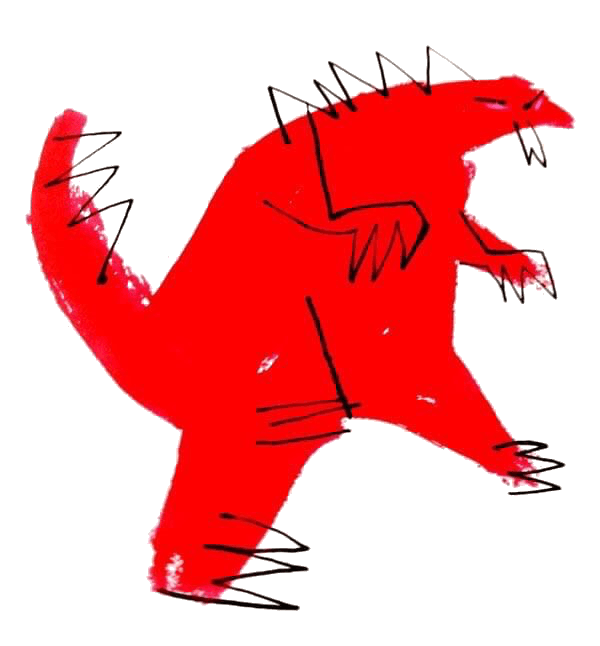
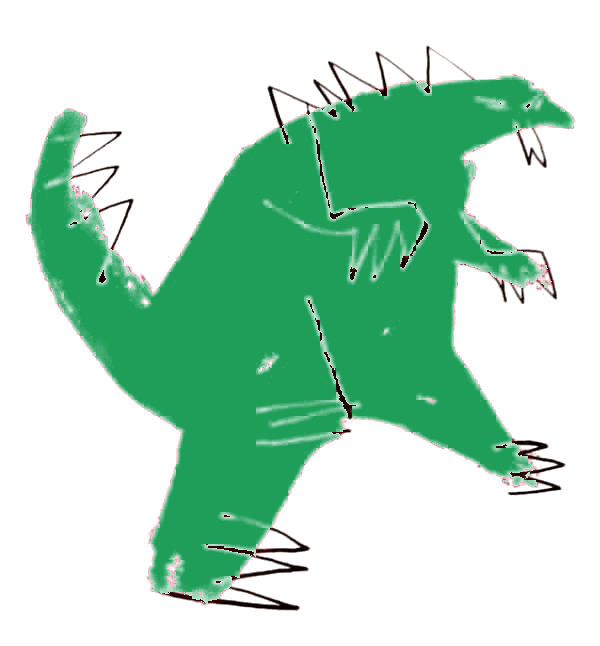
Easter egg com dinossauro verde; dock mais baixa

diff --git a/fonte/app/style.css b/fonte/app/style.css
@@ -2,7 +2,7 @@
   --bg:#f4f7f5;--card:#fff;--ink:#10201b;--mut:#5b6e67;--bd:#e0e9e5;--ac:#14806a;--ac-ink:#fff;--ac-soft:#dff3ed;
   --nu:#2c6bd6;--nu-soft:#e4edfc;--el:#c2570c;--el-soft:#fdeadb;--mec:#7a3fc9;--mec-soft:#efe5fb;
   --tile:#fff;--sombra:0 1px 2px rgba(16,32,27,.06),0 6px 20px rgba(16,32,27,.06);
-  --topo:56px;--aba:68px;--gap:12px;--r:16px;
+  --topo:56px;--aba:58px;--gap:10px;--r:16px;
   --seg:env(safe-area-inset-bottom,0px);--top:env(safe-area-inset-top,0px);
   color-scheme:light dark;
 }
@@ -244,7 +244,7 @@ a.etq{transition:transform .15s}a.etq:active{transform:scale(.92)}
 .cr-mutano{margin:2px 0 0;font:900 clamp(68px,24vw,116px)/.92 Impact,'Haettenschweiler','Arial Narrow Bold','Helvetica Neue',Arial,sans-serif;letter-spacing:-.005em;transform:rotate(-3deg);filter:url(#cr-fio)}
 .cr-mutano div{display:inline-block}
 .cr-zz{display:block;width:min(78vw,340px);height:16px;margin-top:2px;transform:rotate(-3deg);overflow:visible}
-.cr-zz path{fill:none;stroke:#ee1c25;stroke-width:6;stroke-linecap:round;stroke-linejoin:round}
+.cr-zz path{fill:none;stroke:#1f9e5a;stroke-width:6;stroke-linecap:round;stroke-linejoin:round}
 .dv-caixa{width:min(78vw,400px);touch-action:none}
 .dv{display:block;width:100%;height:auto;overflow:visible}
 .dv .v-red{fill:var(--vermelho,#f60507);stroke:none}
@@ -267,7 +267,7 @@ mark{background:color-mix(in srgb,#f4b400 40%,transparent);color:inherit;border-
 
 /* dock flutuante (vidro) */
 .abas{position:fixed;left:50%;bottom:calc(var(--seg) + var(--gap));z-index:20;width:min(calc(100% - 28px),420px);height:var(--aba);transform:translateX(-50%);
-  display:flex;align-items:stretch;padding:5px;border-radius:32px;isolation:isolate;
+  display:flex;align-items:stretch;padding:4px;border-radius:28px;isolation:isolate;
   background:rgba(255,255,255,.55);
   -webkit-backdrop-filter:blur(30px) saturate(180%);backdrop-filter:blur(30px) saturate(180%);
   border:1px solid rgba(16,32,27,.09);
@@ -280,16 +280,16 @@ mark{background:color-mix(in srgb,#f4b400 40%,transparent);color:inherit;border-
   box-shadow:0 12px 34px rgba(0,0,0,.5),0 1px 3px rgba(0,0,0,.35)}
   .abas::before{background:linear-gradient(180deg,rgba(255,255,255,.10),rgba(255,255,255,0) 55%)}}
 @keyframes dock-entra{from{opacity:0;transform:translateX(-50%) translateY(40px) scale(.94)}to{opacity:1;transform:translateX(-50%)}}
-.abas a{position:relative;z-index:1;flex:1 1 0;min-width:0;display:flex;flex-direction:column;align-items:center;justify-content:center;gap:3px;
-  color:var(--mut);font-size:.62rem;font-weight:650;border-radius:26px;transition:color .25s,transform .2s}
+.abas a{position:relative;z-index:1;flex:1 1 0;min-width:0;display:flex;flex-direction:column;align-items:center;justify-content:center;gap:2px;
+  color:var(--mut);font-size:.6rem;font-weight:650;border-radius:26px;transition:color .25s,transform .2s}
 .abas a:active{transform:scale(.9)}
 .abas a.on{color:#0c5f4e}
 @media (prefers-color-scheme:dark){.abas a.on{color:var(--ac)}}
 .abas a span{line-height:1;white-space:nowrap}
-.abas svg{width:24px;height:24px;flex:none;fill:none;stroke:currentColor;stroke-width:1.9;stroke-linecap:round;stroke-linejoin:round}
-.abas .glifo{display:flex;align-items:center;justify-content:center;width:30px;height:24px;font-size:.98rem;line-height:1;letter-spacing:-.04em;white-space:nowrap}
+.abas svg{width:22px;height:22px;flex:none;fill:none;stroke:currentColor;stroke-width:1.9;stroke-linecap:round;stroke-linejoin:round}
+.abas .glifo{display:flex;align-items:center;justify-content:center;width:30px;height:22px;font-size:.98rem;line-height:1;letter-spacing:-.04em;white-space:nowrap}
 .abas .glifo sup{font-size:.62em;line-height:1;margin-left:1px;position:relative;top:-.42em}
-.pilula{position:absolute;top:5px;bottom:5px;left:0;width:60px;border-radius:27px;opacity:0;pointer-events:none;z-index:0;
+.pilula{position:absolute;top:4px;bottom:4px;left:0;width:60px;border-radius:24px;opacity:0;pointer-events:none;z-index:0;
   background:rgba(20,128,106,.14);
   transition:transform .42s cubic-bezier(.3,1.3,.5,1),width .42s cubic-bezier(.3,1.3,.5,1),opacity .2s}
 @media (prefers-color-scheme:dark){.pilula{background:rgba(255,255,255,.13)}}

diff --git a/site/style.css b/site/style.css
@@ -2,7 +2,7 @@
   --bg:#f4f7f5;--card:#fff;--ink:#10201b;--mut:#5b6e67;--bd:#e0e9e5;--ac:#14806a;--ac-ink:#fff;--ac-soft:#dff3ed;
   --nu:#2c6bd6;--nu-soft:#e4edfc;--el:#c2570c;--el-soft:#fdeadb;--mec:#7a3fc9;--mec-soft:#efe5fb;
   --tile:#fff;--sombra:0 1px 2px rgba(16,32,27,.06),0 6px 20px rgba(16,32,27,.06);
-  --topo:56px;--aba:68px;--gap:12px;--r:16px;
+  --topo:56px;--aba:58px;--gap:10px;--r:16px;
   --seg:env(safe-area-inset-bottom,0px);--top:env(safe-area-inset-top,0px);
   color-scheme:light dark;
 }
@@ -244,7 +244,7 @@ a.etq{transition:transform .15s}a.etq:active{transform:scale(.92)}
 .cr-mutano{margin:2px 0 0;font:900 clamp(68px,24vw,116px)/.92 Impact,'Haettenschweiler','Arial Narrow Bold','Helvetica Neue',Arial,sans-serif;letter-spacing:-.005em;transform:rotate(-3deg);filter:url(#cr-fio)}
 .cr-mutano div{display:inline-block}
 .cr-zz{display:block;width:min(78vw,340px);height:16px;margin-top:2px;transform:rotate(-3deg);overflow:visible}
-.cr-zz path{fill:none;stroke:#ee1c25;stroke-width:6;stroke-linecap:round;stroke-linejoin:round}
+.cr-zz path{fill:none;stroke:#1f9e5a;stroke-width:6;stroke-linecap:round;stroke-linejoin:round}
 .dv-caixa{width:min(78vw,400px);touch-action:none}
 .dv{display:block;width:100%;height:auto;overflow:visible}
 .dv .v-red{fill:var(--vermelho,#f60507);stroke:none}
@@ -267,7 +267,7 @@ mark{background:color-mix(in srgb,#f4b400 40%,transparent);color:inherit;border-
 
 /* dock flutuante (vidro) */
 .abas{position:fixed;left:50%;bottom:calc(var(--seg) + var(--gap));z-index:20;width:min(calc(100% - 28px),420px);height:var(--aba);transform:translateX(-50%);
-  display:flex;align-items:stretch;padding:5px;border-radius:32px;isolation:isolate;
+  display:flex;align-items:stretch;padding:4px;border-radius:28px;isolation:isolate;
   background:rgba(255,255,255,.55);
   -webkit-backdrop-filter:blur(30px) saturate(180%);backdrop-filter:blur(30px) saturate(180%);
   border:1px solid rgba(16,32,27,.09);
@@ -280,16 +280,16 @@ mark{background:color-mix(in srgb,#f4b400 40%,transparent);color:inherit;border-
   box-shadow:0 12px 34px rgba(0,0,0,.5),0 1px 3px rgba(0,0,0,.35)}
   .abas::before{background:linear-gradient(180deg,rgba(255,255,255,.10),rgba(255,255,255,0) 55%)}}
 @keyframes dock-entra{from{opacity:0;transform:translateX(-50%) translateY(40px) scale(.94)}to{opacity:1;transform:translateX(-50%)}}
-.abas a{position:relative;z-index:1;flex:1 1 0;min-width:0;display:flex;flex-direction:column;align-items:center;justify-content:center;gap:3px;
-  color:var(--mut);font-size:.62rem;font-weight:650;border-radius:26px;transition:color .25s,transform .2s}
+.abas a{position:relative;z-index:1;flex:1 1 0;min-width:0;display:flex;flex-direction:column;align-items:center;justify-content:center;gap:2px;
+  color:var(--mut);font-size:.6rem;font-weight:650;border-radius:26px;transition:color .25s,transform .2s}
 .abas a:active{transform:scale(.9)}
 .abas a.on{color:#0c5f4e}
 @media (prefers-color-scheme:dark){.abas a.on{color:var(--ac)}}
 .abas a span{line-height:1;white-space:nowrap}
-.abas svg{width:24px;height:24px;flex:none;fill:none;stroke:currentColor;stroke-width:1.9;stroke-linecap:round;stroke-linejoin:round}
-.abas .glifo{display:flex;align-items:center;justify-content:center;width:30px;height:24px;font-size:.98rem;line-height:1;letter-spacing:-.04em;white-space:nowrap}
+.abas svg{width:22px;height:22px;flex:none;fill:none;stroke:currentColor;stroke-width:1.9;stroke-linecap:round;stroke-linejoin:round}
+.abas .glifo{display:flex;align-items:center;justify-content:center;width:30px;height:22px;font-size:.98rem;line-height:1;letter-spacing:-.04em;white-space:nowrap}
 .abas .glifo sup{font-size:.62em;line-height:1;margin-left:1px;position:relative;top:-.42em}
-.pilula{position:absolute;top:5px;bottom:5px;left:0;width:60px;border-radius:27px;opacity:0;pointer-events:none;z-index:0;
+.pilula{position:absolute;top:4px;bottom:4px;left:0;width:60px;border-radius:24px;opacity:0;pointer-events:none;z-index:0;
   background:rgba(20,128,106,.14);
   transition:transform .42s cubic-bezier(.3,1.3,.5,1),width .42s cubic-bezier(.3,1.3,.5,1),opacity .2s}
 @media (prefers-color-scheme:dark){.pilula{background:rgba(255,255,255,.13)}}

diff --git a/site/index.html b/site/index.html
@@ -14,7 +14,7 @@
 <link rel="manifest" href="manifest.webmanifest">
 <link rel="icon" href="icone.svg" type="image/svg+xml">
 <link rel="apple-touch-icon" href="apple-touch-icon.png">
-<link rel="stylesheet" href="style.css?v=11755b0131">
+<link rel="stylesheet" href="style.css?v=2790217a4e">
 </head>
 <body>
 <div id="app">
@@ -44,7 +44,7 @@
   <div class="zoom" id="zoom" hidden><div class="zoom-conteudo" id="zoom-conteudo"></div></div>
 </div>
 <noscript>Este atlas precisa de JavaScript para funcionar.</noscript>
-<script src="motion.js?v=11755b0131" defer></script>
-<script src="app.js?v=11755b0131" defer></script>
+<script src="motion.js?v=2790217a4e" defer></script>
+<script src="app.js?v=2790217a4e" defer></script>
 </body>
 </html>

diff --git a/site/sw.js b/site/sw.js
@@ -7,11 +7,11 @@
 // 3. `versao.json` nunca é guardado: é por ele que o app descobre que saiu
 //    versão nova e mostra o botão Atualizar.
 //
-// `11755b0131` vira a marca do build em tools/build.mjs, então este arquivo muda
+// `2790217a4e` vira a marca do build em tools/build.mjs, então este arquivo muda
 // a cada publicação, o navegador instala o worker novo e o `activate` apaga o
 // cache do anterior. O worker novo assume sem esperar; quem recarrega a tela é o
 // botão Atualizar, nunca o worker.
-const BUILD = '11755b0131';
+const BUILD = '2790217a4e';
 const CACHE = 'atlas-' + BUILD;
 const V = '?v=' + BUILD;
 const PRE = ['./', 'motion.js' + V, 'app.js' + V, 'style.css' + V, 'dados.json' + V, 'svgs.json' + V,

diff --git a/site/app.js b/site/app.js
@@ -2,7 +2,7 @@
 // Dados: dados.json (reações + tags) e svgs.json (estruturas desenhadas no build com RDKit).
 (() => {
   'use strict';
-  const BUILD = '11755b0131';
+  const BUILD = '2790217a4e';
   const $ = (s) => document.querySelector(s);
   const tela = $('#tela'), titulo = $('#titulo'), voltar = $('#voltar'), abas = $('#abas'), pilula = $('#pilula');
   const aviso = $('#aviso'), avisoTexto = $('#aviso-texto'), avisoOk = $('#aviso-ok'), avisoX = $('#aviso-x');

diff --git a/tools/vetorizar.py b/tools/vetorizar.py
@@ -15,7 +15,7 @@ from scipy import ndimage as ndi
 from skimage import measure, morphology
 
 RAIZ = Path(__file__).resolve().parent.parent
-entrada = RAIZ / 'fonte/app/dino.png'
+entrada = RAIZ / 'tools/ref/dino-original.png'
 saida = RAIZ / 'fonte/app/dino-vetor.json'
 
 im = np.asarray(Image.open(entrada).convert('RGB')).astype(int)
@@ -34,7 +34,7 @@ silhueta = morphology.remove_small_objects(silhueta, 400)
 silhueta = morphology.opening(silhueta, morphology.disk(1))
 cor = vermelho.nonzero()
 rgb = [int(im[..., c][cor].mean()) for c in range(3)]
-cor_hex = '#%02x%02x%02x' % tuple(rgb)
+cor_hex = '#1f9e5a'  # verde do easter egg (a imagem original é vermelha)
 
 # ---------- partes móveis (polígonos em px da imagem) ----------
 POLIGONOS = {
